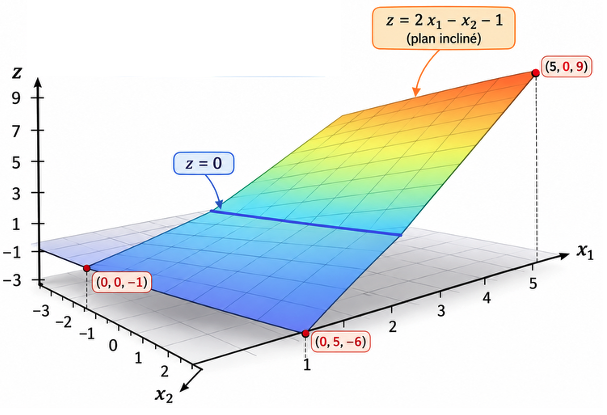
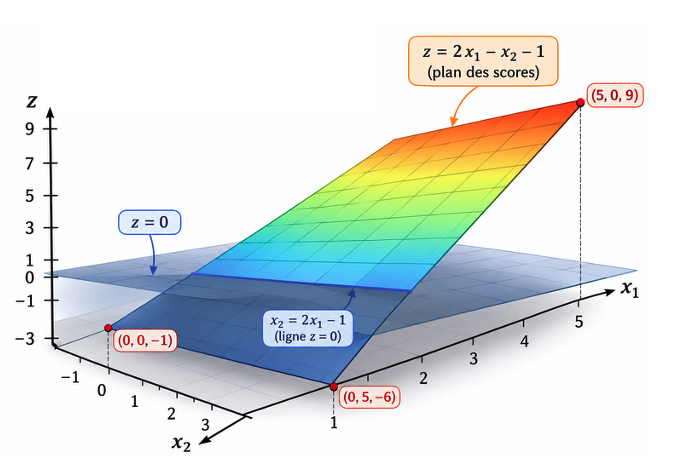
révision suite remarques issue 1

diff --git a/chapitre5/chapitre5.html b/chapitre5/chapitre5.html
@@ -1,0 +1,159 @@
+<!doctype html>
+<html lang="fr">
+    <head>
+        <meta charset="UTF-8" />
+        <meta name="viewport" content="width=device-width, initial-scale=1.0" />
+        <title>Chapitre 5 : La mécanique propre au langage</title>
+        <link rel="stylesheet" href="../css/style.css" />
+    </head>
+
+    <body>
+        <div class="container">
+            <header>
+                <h1>Chapitre 5 : La mécanique propre au langage</h1>
+                <p class="subtitle">
+                    Comprendre comment les modèles de langage transforment le texte : de la tokenisation à la prédiction.
+                </p>
+            </header>
+
+            <!-- ======================================================== -->
+            <!-- INTRODUCTION -->
+            <!-- ======================================================== -->
+<div class="section">
+    <h2>Une chaîne de numérisation et de calculs géométriques</h2>
+    <p class="subtitle">
+        On ne demande plus <em>pour quel objectif</em> est fait le réseau de neurones (chapitre 4),
+        mais <em><b>comment</b></em> il saisit le langage.
+    </p>
+    <p>
+        Les modèles de langage modernes suivent une chaîne opérationnelle précise :
+    </p>
+    <p class="important-box">
+        <strong>
+            Tokenisation → Représentations vectorielles → Attention → Prédiction du token suivant
+        </strong>
+    </p>
+</div>
+
+            <hr />
+
+            <!-- ======================================================== -->
+            <!-- TOKENISATION -->
+            <!-- ======================================================== -->
+            <div class="section">
+                <h2>1. Tokenisation : Découper le texte en unités de base</h2>
+                <p>
+                    <strong>Ce qu'il faut savoir</strong> : La tokenisation est le processus de découpage du texte brut en <em>tokens</em> — 
+                    les plus petites unités de traitement que comprend le modèle.
+                </p>
+                <p>
+                    Un <span class = "keyword">token</span> peut être un mot, une partie de mot (sous-mot ou <em>subword</em>), un caractère, ou même un espace. 
+                    Les modèles modernes utilisent principalement des tokeniseurs par sous-mots (paire de caractères ou autre morceau de mots) qui permettent 
+                    de gérer efficacement les mots inconnus tout en limitant la taille du vocabulaire.
+                </p>
+                <p>
+                    <strong>Exemple</strong> : "Tokenisation" pourrait être découpé en ["Token", "##isation"] ou ["To", "ken", "##isa", "##tion"] 
+                    selon le vocabulaire du tokeniseur.
+                </p>
+            </div>
+
+            <hr />
+
+            <!-- ======================================================== -->
+            <!-- REPRÉSENTATIONS VECTORIELLES -->
+            <!-- ======================================================== -->
+            <div class="section">
+                <h2>2. Représentations vectorielles : Transformer les tokens en nombres</h2>
+                <p>
+                    <strong>Ce qu'il faut savoir</strong> : Chaque token est converti en un <em>vecteur numérique</em> (embedding) qui 
+                    capture son sens et ses relations avec d'autres tokens.
+                </p>
+                <p>
+                    Ces vecteurs sont appris pendant l'entraînement et placés dans un espace sémantique où les mots proches 
+                    ont des vecteurs similaires. Par exemple, le vecteur de "roi" est proche de celui de "reine", et l'opération 
+                    <code>roi - homme + femme ≈ reine</code> peut émerger.
+                </p>
+                <p>
+                    Les embeddings permettent au modèle de traiter le langage comme des calculs mathématiques sur des nombres, 
+                    ouvrant la voie aux opérations d'attention.
+                </p>
+            </div>
+
+            <hr />
+
+            <!-- ======================================================== -->
+            <!-- ATTENTION -->
+            <!-- ======================================================== -->
+            <div class="section">
+                <h2>3. Mécanisme d'attention : Capturer les relations contextuelles</h2>
+                <p>
+                    <strong>Ce qu'il faut savoir</strong> : L'attention est un mécanisme qui permet au modèle de <em>pondérer 
+                    l'importance</em> de chaque token par rapport aux autres dans une séquence.
+                </p>
+                <p>
+                    Au lieu de traiter les mots isolément, le mécanisme d'attention calcule pour chaque token des <em>scores d'attention</em> 
+                    qui déterminent combien chaque autre token de la séquence contribue à sa compréhension. Cela permet de capturer 
+                    des dépendances à longue portée et des relations contextuelles complexes.
+                </p>
+                <p>
+                    L'architecture Transformer, base des modèles de langage modernes, repose entièrement sur ce mécanisme 
+                    (<em>self-attention</em>), appliqué en parallèle à tous les tokens simultanément.
+                </p>
+            </div>
+
+            <hr />
+
+            <!-- ======================================================== -->
+            <!-- PRÉDICTION DU TOKEN SUIVANT -->
+            <!-- ======================================================== -->
+            <div class="section">
+                <h2>4. Prédiction du token suivant : L'objectif final</h2>
+                <p>
+                    <strong>Ce qu'il faut savoir</strong> : Le modèle est entraîné pour <em>prédire le token suivant</em> dans une séquence, 
+                    conditionnellement à tous les tokens précédents.
+                </p>
+                <p>
+                    Cette tâche simple en apparence (<em>language modeling</em>) est à la base de toutes les capacités des grands 
+                    modèles de langage. En apprenant à prédire le mot suivant dans des milliards de phrases, le modèle internalise 
+                    la grammaire, le vocabulaire, les faits, et même des formes de raisonnement.
+                </p>
+                <p>
+                    À l'inférence, le modèle génère du texte token par token, en utilisant ses propres prédictions comme contexte 
+                    pour les suivantes (génération <em>auto-régressive</em>).
+                </p>
+            </div>
+
+            <hr />
+
+            <!-- ======================================================== -->
+            <!-- CONCLUSION -->
+            <!-- ======================================================== -->
+            <div class="section">
+                <h2>🎯 Conclusion : La leçon du Chapitre 5</h2>
+                <p>
+                    Ce chapitre révèle que la compréhension du langage par les IA repose sur une chaîne de transformations 
+                    mathématiques simples mais puissantes :
+                </p>
+                <ul>
+                    <li><strong>Tokenisation</strong> : découper le texte en unités traitables</li>
+                    <li><strong>Représentations vectorielles</strong> : donner une forme numérique au sens</li>
+                    <li><strong>Attention</strong> : capturer les relations entre les éléments</li>
+                    <li><strong>Prédiction du token suivant</strong> : l'objectif unificateur qui émerge de l'apprentissage</li>
+                </ul>
+                <p>
+                    Dans le chapitre suivant, nous explorerons <em>ce que le modèle produit exactement</em> : des distributions de 
+                    probabilités conditionnées par le corpus d'entraînement.
+                </p>
+            </div>
+
+            <footer>
+                <p>
+                    <a href="../index.html">← Retour à l'index</a> |
+                    <a href="../chapitre4/chapitre4.html">Chapitre 4 : Une même mécanique, des objectifs différents</a>
+                    | 
+                    <a href="../chapitre6/chapitre6.html">Chapitre 6 : Données et probabilités →</a>
+                </p>
+            </footer>
+        </div>
+    </body>
+</html>

diff --git a/chapitre1/chapitre1.html b/chapitre1/chapitre1.html
@@ -94,7 +94,7 @@
                     <img
                         src="img/uneDroite.png"
                         alt="Découpage d'un plan par une droite"
-                        width="480"
+                        width="500"
                     />
                     <p>
                         <em>
@@ -122,7 +122,7 @@
                     <img
                         src="img/perceptron_score_brut.png"
                         alt="Découpage d'un plan par une droite"
-                        width="400"
+                        width="500"
                     />
                     <br /><em
                         >Le plan des scores bruts n'est pas borné.<br />
@@ -135,8 +135,8 @@
                     de la droite, sa position, et l'inclinaison du plan des
                     scores.
                 </p>
-                <h4>Généralisation à n dimensions</h4>
-                <table>
+                <h4 class = "centered">Généralisation à n dimensions</h4>
+                <table class = "centered">
                     <thead>
                         <tr>
                             <th>Entrées</th>
@@ -267,19 +267,7 @@
                 </div>
             </div>
 
-            <hr />
-            <div class="section">
-                <h2>Conclusion du chapitre 1</h2>
-                <p>
-                    Le neurone artificiel est une fonction simple, dont les
-                    paramètres s’ajustent par apprentissage.
-                    <br />Contrairement à un calcul exact, ses résultats varient: 
-                    pour un même problème, il existe <b>autant de solutions
-                    valides que d’entraînements</b>, et donc autant de comportements
-                    différents.
-                </p>
-            </div>
-
+            
             <hr />
 
             <div class="section">
@@ -320,7 +308,7 @@
                 </ul>
 
                 <h3>Le jeu de données et de test</h3>
-                Il définit le comportement attendu du réseau de neurones.
+                Il définit le comportement attendu de la couche de neurones.
                 <p>
                     Cela s'appelle un
                     <span class="keyword">apprentissage supervisé</span>: on
@@ -443,18 +431,21 @@
                 entrée fixe à 1, multipliée par le biais.
             </div>
             <div class="section">
-                <h4>La taille d'un modèle</h4>
+                <h4>La taille du modèle</h4>
                 <p>
                     Un <span class="keyword">modèle</span> est un tableau
-                    numérique des paramètres une fois que le réseau a été 
-                    entraîné. Sa taille est son nombre de paramètres.<br />
+                    numérique des paramètres une fois que l'entraînement a abouti. 
+                    Sa taille est son nombre de paramètres.<br />
 
-                    Notre réseau comporte un
+                    Notre architecture comporte un
                     <span class="keyword"
                         >modèle à <b>9</b> paramètres   </span>et possède <span class="keyword">1 couche de sortie  </span>
                     </span>
                     ( composée de 3 neurones chacun ayant 3 paramètres ). <br />
-                    Les réseaux de reconnaissance d'images comptent 
+
+</p><p>
+
+                    Les architectures de reconnaissance d'images comptent 
                     <b>des millions (10<sup>6</sup>)</b> de paramètres et des
                     dizaines de couches.<br />
                     Les grands
@@ -472,7 +463,7 @@
                 </p>
             </div>
             <div class="section">
-                <h4>Expérimenter ce réseau</h4>
+                <h4>Expérimenter cette architecture à 3 neurones</h4>
                 <p>
                     Les poids sont initialisés aléatoirement au début de chaque
                     entraînement. Le but est de les ajuster afin d'activer chaque
@@ -509,7 +500,29 @@
                      
                 </div>
             </div>
-        </div>
+      
+
+
+            <hr />
+            <div class="section">
+                <h2>Conclusion du chapitre 1</h2>
+                <p>
+                    Le neurone artificiel est une fonction simple dont les paramètres s'ajustent par apprentissage. 
+                    
+             <!--  <br> Par un suivi des erreurs (trop haut, trop bas), on fait évoluer le calcul dans la bonne direction en observant les changements induits par de petites variations des poids. -->
+                    <br> Pour un même problème, de nombreux  modèles (différentes combinaisons de paramètres)  peuvent mener à une solution correcte.
+                    
+
+                </p><p>
+                    Le neurone ancêtre, le Perceptron,  ne sait résoudre que des problèmes où les catégories sont linéairement séparables. 
+                    Même combinés en couche, ces neurones gardent cette limite.
+                   <br> Les évolutions vers des <span class = "keyword">réseaux de neurones</span> viendront de révisions fondamentales des fonctions d'activations.
+                   
+                </p>
+            </div>
+
+  </div>
+
 
         <hr />
         <div

diff --git a/chapitre1/chapitre1-1.html b/chapitre1/chapitre1-1.html
@@ -95,7 +95,7 @@
 
 <body>
     <div class="container">
-        <h1>Entrainez le réseau de neurones des feux tricolores</h1>
+        <h1>Entrainez les neurones des feux tricolores</h1>
 
 
 
@@ -343,12 +343,12 @@
                     <canvas id="visualization-canvas" width="500" height="400"></canvas>
                     <div class="visualization-info">
                         <p>
-                            C'est un réseau <b>Classifieur</b> : Les feux doivent s'allumer individuellement et indépendamment. <br />
+                            C'est un <b>Classifieur</b> : Les feux doivent s'allumer individuellement et indépendamment. <br />
                         </p>
                     </div>
                 </div>
                 <div style="margin-top: 20px; text-align: center;">
-                    <h4 id="bravo-message" style="display: none;"> Bravo ! Vous avez entrainé un réseau de neurones perceptron <br>et obtenu un modèle réutilisable. </h4>
+                    <h4 id="bravo-message" style="display: none;"> Bravo ! Vous avez entrainé une couche de neurones perceptron <br>et obtenu un modèle réutilisable. </h4>
                 </div>
             </div>
 

diff --git a/index.html b/index.html
@@ -13,6 +13,7 @@
 </head>
 
 <body>
+    <!-- v1.1 - 2026-11-27 -->
     <div class="container">
         <header>
             <h1>🟡 Boîte Blanche</h1>
@@ -71,7 +72,7 @@
                     <p>La taxonomie des IA est une taxonomie d'objectifs et de formats de sortie, pas de mécanismes.</p>
                 </a>
                 <a href="#" class="chapter-card">
-                    <span class="chapter-number" style="background-color: #ccc;">5</span>
+                    <span class="chapter-number" style="background-color: #dcb91c;">5</span>
                     <h3>La mécanique propre au langage</h3>
                     <p><span class="title">Changement de question</span> : on ne demande plus pour quoi il est fait, mais comment il saisit le langage.</p>
                     <p>Tokenisation → représentations vectorielles → attention → prédiction du token suivant.</p>

diff --git a/css/style.css b/css/style.css
@@ -554,6 +554,16 @@ th {
     /* Force chaque colonne à prendre la même largeur */
 }
 
+/* <table class = "centered"> */
+.centered {
+    margin-left: auto;
+    margin-right: auto;
+    width: fit-content; /* ou une largeur fixe comme 80% */
+}
+
+
+
+
 
 /* ===================================================================
    9. INSTRUCTION & INFO BOXES
